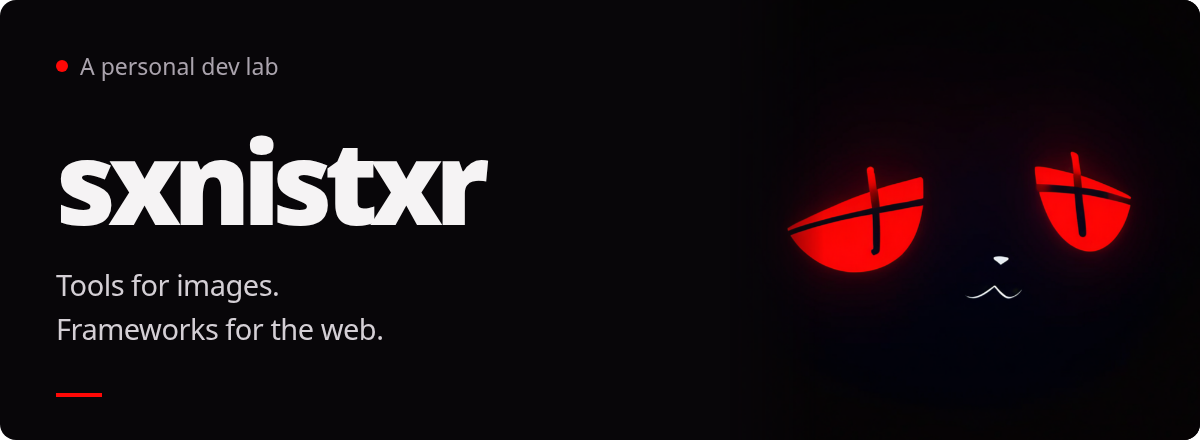
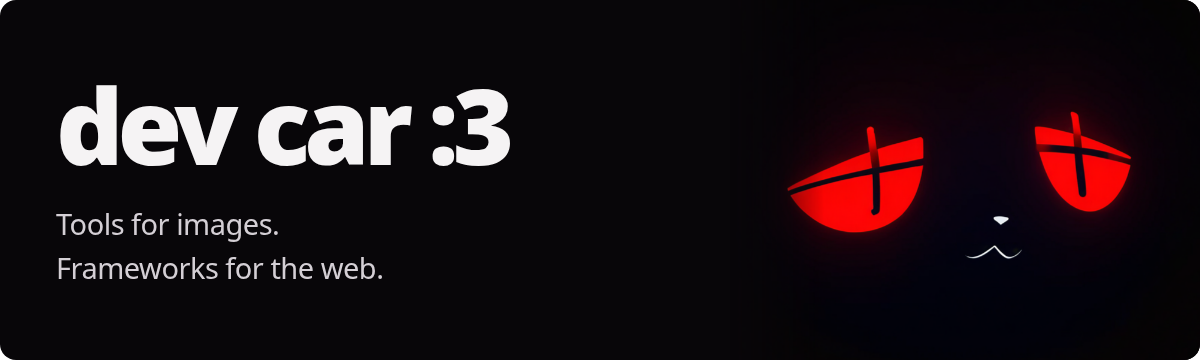
Simplify profile and add badges and GitHub activity cards

diff --git a/README.md b/README.md
@@ -1,4 +1,4 @@
-<img src="assets/header.png" alt="sxnistxr. A personal dev lab. Tools for images, frameworks for the web." width="100%">
+<img src="assets/header.png" alt="dev car :3. Tools for images. Frameworks for the web." width="100%">
 
 ### Hey, I'm sxnistxr.
 
@@ -7,15 +7,15 @@ and **OPTZ**, the React framework for Bun behind my dev lab.
 
 [Visit the lab](https://dihlabs.lol) &nbsp; / &nbsp; [Read the docs](https://dihlabs.lol/docs) &nbsp; / &nbsp; [Explore my repos](https://github.com/sxnistxr?tab=repositories)
 
-**My toolkit** &nbsp; <code>TypeScript</code> <code>React</code> <code>Bun</code> <code>Rust</code>
+**My toolkit**
+
+[![TypeScript](https://img.shields.io/badge/TypeScript-302930?style=flat-square&logo=typescript&logoColor=white)](https://www.typescriptlang.org/) [![React](https://img.shields.io/badge/React-302930?style=flat-square&logo=react&logoColor=white)](https://react.dev/) [![Bun](https://img.shields.io/badge/Bun-302930?style=flat-square&logo=bun&logoColor=white)](https://bun.sh/) [![Rust](https://img.shields.io/badge/Rust-302930?style=flat-square&logo=rust&logoColor=white)](https://www.rust-lang.org/)
 
 <br>
 
 ## Compare
 
 **A better view of your image experiments.**
-
-<a href="https://compare-tool-xi.vercel.app"><img src="assets/compare-preview.png" alt="Compare live app with four sample landscapes arranged in a labeled grid and layout controls in the sidebar" width="100%"></a>
 
 Put SDXL outputs side by side, inspect their generation settings, and export
 a comparison sheet. Made for the details you miss switching between tabs.
@@ -32,8 +32,6 @@ a comparison sheet. Made for the details you miss switching between tabs.
 
 Built with **TypeScript, Next.js, React, and Tailwind CSS**.
 
-*Preview uses sample landscape illustrations.*
-
 </details>
 
 <br>
@@ -41,8 +39,6 @@ Built with **TypeScript, Next.js, React, and Tailwind CSS**.
 ## OPTZ
 
 **HTML first. Interaction where it belongs.**
-
-<a href="https://dihlabs.lol/optz"><img src="assets/optz-preview.png" alt="OPTZ live framework page: Blink. It's served. The React framework for Bun, with links to get started and read the documentation" width="100%"></a>
 
 A React framework for Bun with server-rendered pages, interactive islands,
 typed routes and APIs, caching, and middleware. It's what runs my lab.
@@ -62,6 +58,12 @@ Built with **TypeScript, React, Bun, and Rust**.
 </details>
 
 <br>
+
+## On GitHub
+
+<a href="https://github.com/sxnistxr?tab=repositories"><img src="https://github-stats-extended.vercel.app/api?username=sxnistxr&show_icons=true&hide_border=true&bg_color=080609&title_color=ff0806&icon_color=ff0806&text_color=aaa3ad&border_radius=0&hide_rank=true&card_width=495&disable_animations=true" alt="Public GitHub stats for sxnistxr: stars, commits, pull requests, issues, and contributions" width="495"></a>
+
+<a href="https://github.com/sxnistxr?tab=overview"><img src="https://streak-stats.demolab.com?user=sxnistxr&theme=dark&background=080609&hide_border=true&border_radius=0&ring=FF0806&fire=FF0806&currStreakLabel=FF0806&sideLabels=AAA3AD&dates=AAA3AD&currStreakNum=AAA3AD&sideNums=AAA3AD&disable_animations=true" alt="GitHub contributions, current streak, and longest streak for sxnistxr" width="495"></a>
 
 ---
 

diff --git a/DESIGN.md b/DESIGN.md
@@ -17,22 +17,14 @@ Typography: Noto Sans, with a heavy, tightly spaced name and regular body copy. 
 
 ## Layout
 
-Left-aligned introduction followed by vertically stacked, clickable project previews, short descriptions, and optional technical details. Retain native text and links for accessibility and mobile reading.
+Left-aligned cat banner, introduction, linked technology badges, text-only project summaries with expandable details, then GitHub stats and streak cards. Retain native text and links for accessibility and mobile reading.
 
-    [ sxnistxr / personal dev lab          cat portrait ]
-    [ introduction + website/docs navigation          ]
-    [ TypeScript / React / Bun / Rust                  ]
-    [ Compare preview                                 ]
-    [ description + live/source links + details        ]
-    [ OPTZ preview                                    ]
-    [ description + live/source/docs + details         ]
+## Current choices
 
-## Critique before implementation
+The banner uses the supplied avatar and reads “dev car :3”. The introductory label and bottom accent line were removed at the user's request. Rounded banner corners are transparent (`omitBackground: true` in the renderer), so they work against GitHub's light and dark backgrounds. Project screenshots and preview frames were removed.
 
-The initial blue banner and generic image/code tiles could belong to any developer. Replaced them with the user's actual avatar and its red/black identity. A black/red palette is justified here by the reference image. Keep the rest quiet: no visitor counters, invented stats, generic animated typing, badge wall, or repetitive decorative headings. Preview frames use each project's visual character: a light image workspace and a dark framework page.
+The toolkit uses Shields badges. The GitHub section uses GitHub Stats Extended (the maintained successor linked by GitHub Readme Stats) and GitHub Readme Streak Stats, both discovered through https://github.com/dhyeythumar/awesome-readme-tools. Cards use square corners, ink backgrounds, readable ash text, and red accents in both GitHub themes. Third-party cards update independently and require no stored credentials.
 
-Hero and preview images are composed as HTML/CSS with unchanged source images, then exported as PNG. Keep original screenshots, avatar, and generator so the assets are reproducible. GitHub strips custom layout CSS, so the README uses only supported Markdown/HTML.
+## Rebuild the banner
 
-## Rebuild the images
-
-Run `bun install`, `bunx playwright install chromium`, then `bun run assets` from this repository. Set `CHROMIUM_EXECUTABLE` to use an existing Chromium installation. Replace the original screenshots in `assets/` before rebuilding to refresh the previews.
+Run `bun install`, `bunx playwright install chromium`, then `bun run assets` from this repository. Set `CHROMIUM_EXECUTABLE` to use an existing Chromium installation. The original avatar is kept unchanged in `assets/avatar.png`. The banner is composed in HTML/CSS and exported as PNG.
